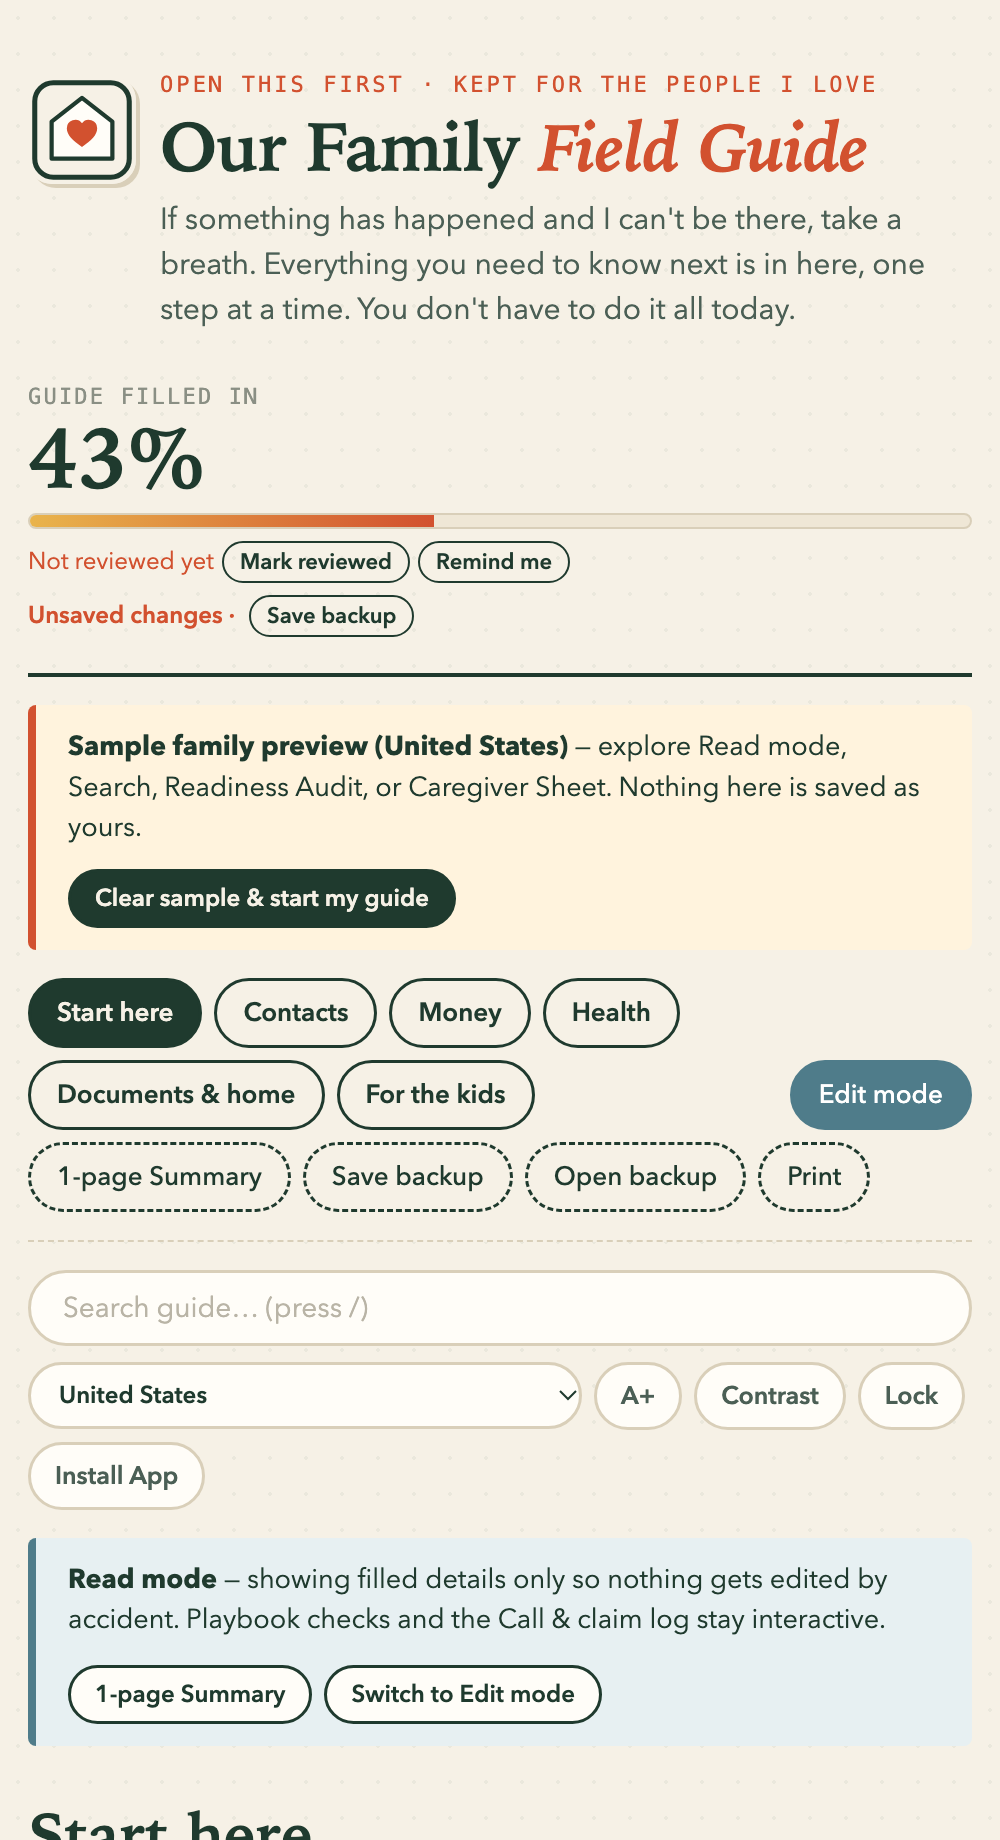
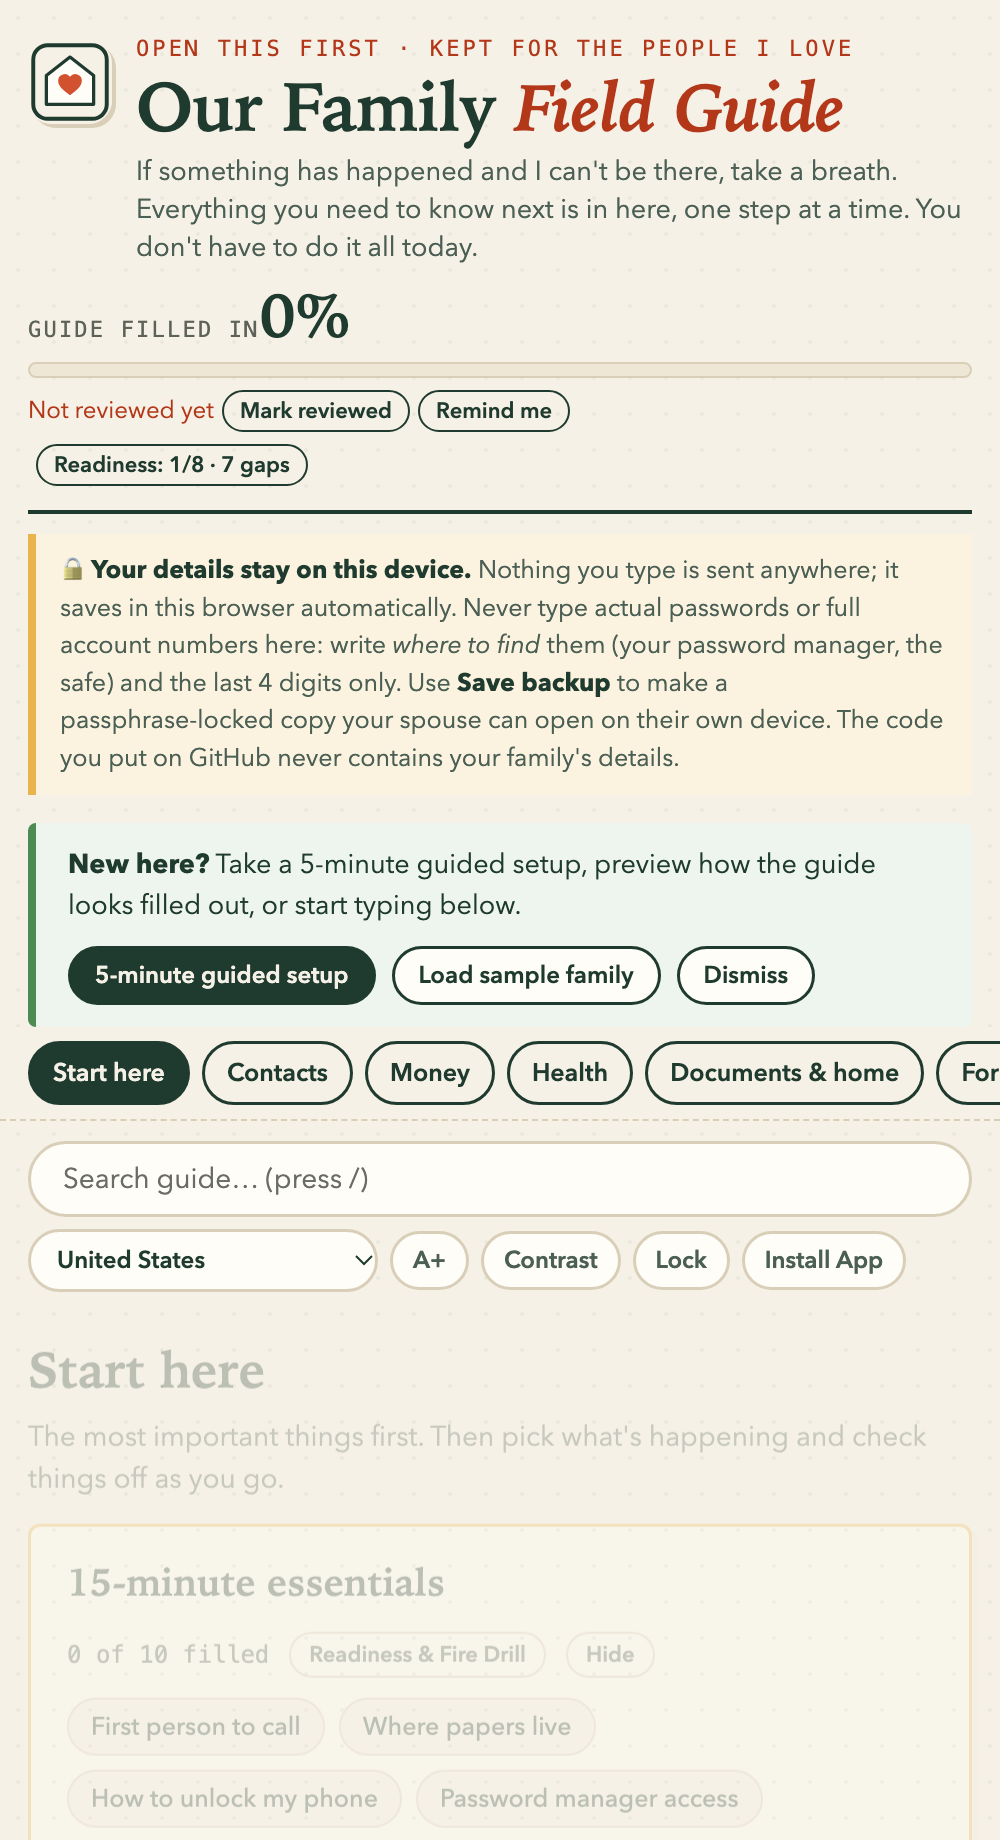
fix(mobile): compact single-row sticky tab bar and unstick while editing

diff --git a/app.js b/app.js
@@ -587,7 +587,28 @@ function render() {
     return `<section class="panel ${S.tab === t.id ? "on" : ""}" role="tabpanel" aria-labelledby="tab-${esc(t.id)}" id="p-${esc(t.id)}"><h2>${esc(t.title)}</h2><p class="lede">${esc(t.lede)}</p>${body}</section>`;
   }).join("");
   document.querySelectorAll("textarea[data-f]").forEach(autoGrow);
-  meter(); trackProgress(); syncInstallBtn();
+  meter(); trackProgress(); syncInstallBtn(); syncActiveTabScroll();
+}
+
+function syncActiveTabScroll() {
+  const nav = $("#tabs");
+  const active = nav?.querySelector?.("button.on");
+  if (nav && active && typeof nav.scrollTo === "function" && nav.scrollWidth > nav.clientWidth) {
+    const targetLeft = Math.max(0, active.offsetLeft - Math.round((nav.clientWidth - active.offsetWidth) / 2));
+    nav.scrollTo({ left: targetLeft, behavior: "smooth" });
+  }
+}
+
+function scrollToActivePanel() {
+  const isMobile = typeof window !== "undefined" && Number(window.innerWidth) > 0 && window.innerWidth <= 720;
+  const nav = $("#tabs"), panels = $("#panels");
+  if (isMobile && panels && typeof panels.getBoundingClientRect === "function") {
+    const navH = nav && typeof nav.getBoundingClientRect === "function" ? nav.getBoundingClientRect().height : 44;
+    const y = (window.scrollY || 0) + panels.getBoundingClientRect().top - navH - 6;
+    scrollTo({ top: Math.max(0, Math.round(y)), behavior: "smooth" });
+  } else {
+    scrollTo({ top: 0, behavior: "smooth" });
+  }
 }
 
 function syncInstallBtn() {
@@ -816,7 +837,7 @@ function jumpTo(tabId, blockKey = "", fieldId = "", trackKey = "") {
       if (inp && typeof inp.focus === "function") inp.focus({ preventScroll: true });
     }
   } else {
-    scrollTo({ top: 0, behavior: "smooth" });
+    scrollToActivePanel();
   }
 }
 
@@ -1010,6 +1031,22 @@ document.addEventListener("keydown", e => {
   }
 });
 
+document.addEventListener("focusin", e => {
+  const tag = e.target?.tagName || "";
+  if (e.target?.closest?.("#panels") && ["INPUT", "TEXTAREA", "SELECT"].includes(tag)) {
+    document.body.classList.add("mobile-editing");
+  }
+});
+document.addEventListener("focusout", () => {
+  setTimeout(() => {
+    const ae = document.activeElement;
+    const tag = ae?.tagName || "";
+    if (!ae?.closest?.("#panels") || !["INPUT", "TEXTAREA", "SELECT"].includes(tag)) {
+      document.body.classList.remove("mobile-editing");
+    }
+  }, 80);
+});
+
 document.addEventListener("click", e => {
   if (!e.target.closest("#searchbar")) {
     $("#searchRes").hidden = true;
@@ -1042,7 +1079,7 @@ document.addEventListener("click", e => {
   }
 
   const d = e.target.closest("button")?.dataset; if (!d) return;
-  if (d.tab) { S.tab = d.tab; save(true, false); render(); scrollTo({ top: 0, behavior: "smooth" }); }
+  if (d.tab) { S.tab = d.tab; save(true, false); render(); scrollToActivePanel(); }
   if (d.track) { S.track = d.track; save(true, false); document.querySelectorAll("[data-track]").forEach(b => b.classList.toggle("on", b.dataset.track === d.track)); $("#pb").innerHTML = playbook(); trackProgress(); }
   if (d.add) { S.lists[d.add].push({}); save(true); relist(d.add); }
   if (d.qadd) {
@@ -1829,6 +1866,7 @@ input[type=password],.cardin{width:100%;font:15px var(--sans);padding:9px 10px;b
 .pcard img{width:100%;height:120px;object-fit:cover;border-radius:3px;cursor:zoom-in}
 #sheetOnly{display:none;max-width:780px;margin:0 auto}.sgrid{display:grid;grid-template-columns:repeat(2,minmax(0,1fr));gap:12px}
 .sboxc{border:1px solid #bbb;border-radius:4px;padding:10px 12px}.sboxc.full{grid-column:1/-1}.sboxc h3{margin:0 0 6px;font-size:16px;border-bottom:1px solid #ddd;padding-bottom:3px}
+@media (max-width:720px){body{padding:14px 12px 48px}.bar{gap:6px;padding-bottom:10px;margin-bottom:10px}.bar h1{font-size:24px;margin-bottom:2px}.bar .acts{width:100%;flex-wrap:nowrap;overflow-x:auto;-webkit-overflow-scrolling:touch;scrollbar-width:none;padding-bottom:2px}.bar .acts::-webkit-scrollbar,.tabs::-webkit-scrollbar{display:none}.bar .acts .btn,.tabs button{flex:0 0 auto;white-space:nowrap;padding:5px 11px;font-size:12px}.tabs{flex-wrap:nowrap;overflow-x:auto;-webkit-overflow-scrolling:touch;scrollbar-width:none;margin:0 -12px 12px;padding:6px 12px;position:sticky;top:0;background:var(--paper);z-index:5;border-bottom:1px dashed var(--rule)}.sgrid{grid-template-columns:minmax(0,1fr)}}
 @media print{.tabs,.bar .acts,.track,.sbox,.rx,.addbtn{display:none!important}.panel{display:block!important;break-before:page}.panel:first-of-type{break-before:auto}
 body.sheet-mode #app{display:none!important}body.sheet-mode #sheetOnly{display:block!important}}
 </style>

diff --git a/styles.css b/styles.css
@@ -97,7 +97,36 @@ h2{font-family:var(--serif);font-size:30px;margin:0 0 4px;font-weight:600}
 .card .cx{position:absolute;top:10px;right:12px;border:none;background:none;color:var(--mute);cursor:pointer;font-size:12px;font-family:var(--mono)}
 .card .cx:hover{color:var(--tomato-ink)}
 .grid2{display:grid;grid-template-columns:repeat(2,minmax(0,1fr));gap:12px 18px}
-@media (max-width:720px){.wrap{padding:0 14px}.grid2{grid-template-columns:minmax(0,1fr)}header.mast{grid-template-columns:minmax(0,1fr)}.meter{text-align:left}.mast-id{min-width:0;gap:12px}.mast-id>div{min-width:0}h1{font-size:clamp(27px,6.8vw,54px)}.search-row{flex-wrap:wrap}.search-box{flex:1 1 100%}.comfort-btns{width:100%}#regionSel{max-width:100%}}
+@media (max-width:720px){
+  .wrap{padding:0 14px}
+  .grid2{grid-template-columns:minmax(0,1fr)}
+  header.mast{grid-template-columns:minmax(0,1fr);padding:16px 0 12px;gap:10px}
+  .mast-id{min-width:0;gap:12px}
+  .mast-id>div{min-width:0}
+  .mast-logo{width:42px;height:42px}
+  h1{font-size:clamp(26px,6.8vw,54px);margin:4px 0 6px}
+  .sub{font-size:13.5px;line-height:1.4}
+  .meter{text-align:left;min-width:0}
+  .meter b{font-size:30px;display:inline-block;margin-left:8px;vertical-align:baseline}
+  .privacy{margin:10px 0 0;padding:9px 12px;font-size:12.5px}
+  nav.tabs{flex-wrap:nowrap;overflow-x:auto;-webkit-overflow-scrolling:touch;scrollbar-width:none;padding:7px 14px;margin:0 -14px;gap:6px;align-items:center}
+  nav.tabs::-webkit-scrollbar{display:none}
+  nav.tabs button{flex:0 0 auto;white-space:nowrap;padding:6px 11px;font-size:12.5px}
+  nav.tabs .spacer{display:none}
+  body.mobile-editing nav.tabs,body:has(#panels input:focus,#panels textarea:focus,#panels select:focus) nav.tabs{position:static}
+  .searchbar{margin:10px 0 0}
+  .search-row{flex-wrap:wrap;gap:6px}
+  .search-box{flex:1 1 100%}
+  .comfort-btns{width:100%;flex-wrap:nowrap;overflow-x:auto;-webkit-overflow-scrolling:touch;scrollbar-width:none;padding-bottom:2px}
+  .comfort-btns::-webkit-scrollbar{display:none}
+  .comfort-btns>*{flex:0 0 auto}
+  #regionSel{max-width:175px;padding:5px 9px}
+  .cbtn{padding:5px 10px;font-size:12px;white-space:nowrap}
+  section.panel{padding:14px 0}
+  h2{font-size:25px}
+  .lede{font-size:14px;margin:0 0 12px}
+}
+@media (max-width:720px) and (max-height:520px){nav.tabs{position:static}}
 label.f{display:block}
 label.f span{display:block;font-family:var(--mono);font-size:10.5px;letter-spacing:.08em;text-transform:uppercase;color:var(--ink2);margin-bottom:3px}
 input,textarea,select{width:100%;font:15px var(--sans);color:var(--ink);background:transparent;border:none;border-bottom:1.5px solid var(--rule);padding:6px 2px;transition:border-color .15s}

diff --git a/tests/web_tests.js b/tests/web_tests.js
@@ -304,4 +304,19 @@ S = {}; norm();
 quickStartWizard();
 assert(els.dlgForm.innerHTML.includes("qsFirst") && els.dlgForm.innerHTML.includes("qsPm"), "quickStartWizard renders guided setup");
 
+// 14. Mobile tab bar & panel scroll behavior
+assert(saHtml.includes("@media (max-width:720px)") && saHtml.includes("flex-wrap:nowrap;overflow-x:auto"), "standalone html has single-row mobile tabs");
+let lastScrollTop = -1;
+globalThis.scrollTo = opts => { lastScrollTop = opts && typeof opts === "object" ? opts.top : opts; };
+globalThis.window.innerWidth = 390;
+globalThis.window.scrollY = 260;
+els.tabs.getBoundingClientRect = () => ({ height: 42 });
+els.panels.getBoundingClientRect = () => ({ top: 120 });
+scrollToActivePanel();
+assert(lastScrollTop === 332, "mobile scrollToActivePanel scrolls directly below slim tab bar");
+globalThis.window.innerWidth = 1280;
+scrollToActivePanel();
+assert(lastScrollTop === 0, "desktop scrollToActivePanel scrolls to top");
+globalThis.scrollTo = () => {};
+
 outPrint("ALL_WEB_TESTS_PASSED");

diff --git a/sw.js b/sw.js
@@ -1,4 +1,4 @@
-const CACHE = "ffg-v9";
+const CACHE = "ffg-v10";
 const ASSETS = [
   "./",
   "./index.html",

diff --git a/tests/test_design_parity.py b/tests/test_design_parity.py
@@ -99,6 +99,7 @@ def main():
     m_gl_ph = re.search(r"\.glance input::placeholder[^{]*\{[^}]*color:\s*(#[0-9a-f]{6})", web_css)
     assert m_gl_ph and contrast_ratio(m_gl_ph.group(1), colors["ink"]) >= 4.5, "Glance placeholder fails WCAG AA"
     assert ":focus-visible" in web_css.split("body.high-contrast")[0], "Missing default :focus-visible outline"
+    assert "flex-wrap:nowrap;overflow-x:auto" in web_css and "body.mobile-editing nav.tabs" in web_css, "Mobile tab bar must stay single-row scrollable and unstick while editing"
 
     # 3. Apple (macOS + iOS) palette, serif/mono fonts, BrandLogoView, UX parity
     apple_theme = read("native/apple/Sources/FamilyGuideUI/Theme.swift")
